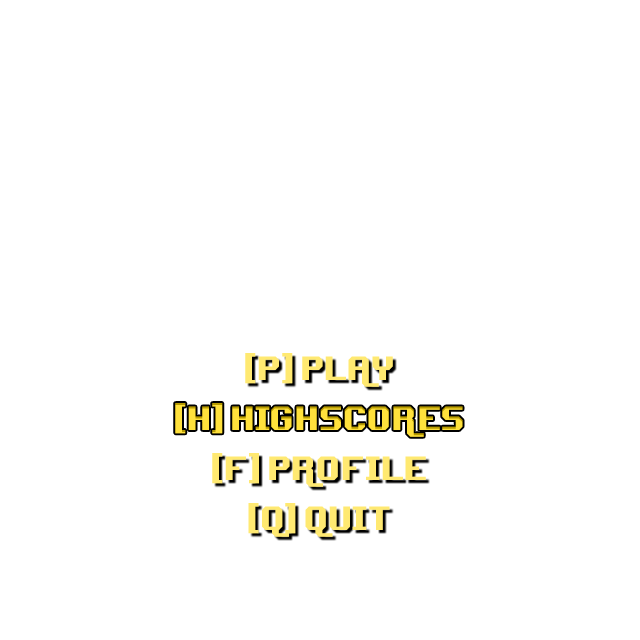
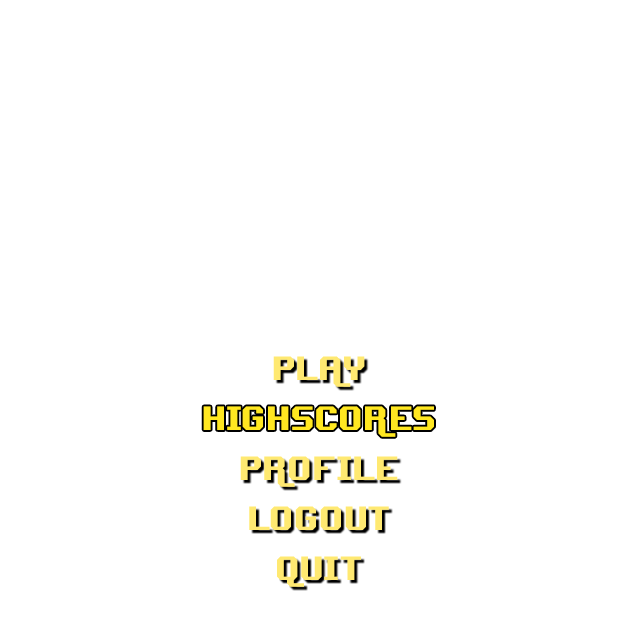
main menu basics done

Changed region(s): [[0.25, 0.5312, 0.75, 0.9375]]

diff --git a/screens/menu.py b/screens/menu.py
@@ -5,21 +5,45 @@ MAIN_MENU: int = 1
 PLAY: int = 2
 HIGHSCORES: int = 3
 PROFILE: int = 4
-QUIT: int = 5
-GAME_OVER: int = 6
+LOGOUT: int = 5
+QUIT: int = 6
+GAME_OVER: int = 7
+
 
 class Menu:
-    def __init__(self: object, win: pygame.Surface, screen_width: int, assets_dir: str) -> None:
+    def __init__(
+        self: object,
+        win: pygame.Surface,
+        screen_width: int,
+        assets_dir: str,
+        framerate: int,
+    ) -> None:
         self.win: pygame.Surface = win
         self.screen_width: int = screen_width
         self.assets_dir: str = assets_dir
+        self.framerate = framerate
 
-        self.border: pygame.Surface = pygame.image.load(f"{self.assets_dir}/main_menu_border.png")
-        self.background: pygame.Surface = pygame.image.load(f"{self.assets_dir}/full_background.png")
-        self.main_menu_play_selected: pygame.Surface = pygame.image.load(f"{self.assets_dir}/main_menu_play_selected.png")
-        self.main_menu_highscore_selected: pygame.Surface = pygame.image.load(f"{self.assets_dir}/main_menu_highscore_selected.png")
-        self.main_menu_profile_selected: pygame.Surface = pygame.image.load(f"{self.assets_dir}/main_menu_profile_selected.png")
-        self.main_menu_quit_selected: pygame.Surface = pygame.image.load(f"{self.assets_dir}/main_menu_quit_selected.png")
+        self.border: pygame.Surface = pygame.image.load(
+            f"{self.assets_dir}/main_menu_border.png"
+        )
+        self.background: pygame.Surface = pygame.image.load(
+            f"{self.assets_dir}/full_background.png"
+        )
+        self.main_menu_play_selected: pygame.Surface = pygame.image.load(
+            f"{self.assets_dir}/main_menu_play_selected.png"
+        )
+        self.main_menu_highscore_selected: pygame.Surface = pygame.image.load(
+            f"{self.assets_dir}/main_menu_highscore_selected.png"
+        )
+        self.main_menu_profile_selected: pygame.Surface = pygame.image.load(
+            f"{self.assets_dir}/main_menu_profile_selected.png"
+        )
+        self.main_menu_logout_selected: pygame.Surface = pygame.image.load(
+            f"{self.assets_dir}/main_menu_logout_selected.png"
+        )
+        self.main_menu_quit_selected: pygame.Surface = pygame.image.load(
+            f"{self.assets_dir}/main_menu_quit_selected.png"
+        )
 
         self.background_image_width: int = self.background.get_width()
 
@@ -27,12 +51,42 @@ class Menu:
 
         self.menu_state: int = PLAY
 
-    def run(self: object) -> None:
-        self.draw()
+    def run(self: object) -> int:
+        selected: bool = False
+
+        clock: pygame.time.Clock = pygame.time.Clock()
+        while not selected:
+            clock.tick(self.framerate)
+
+            for event in pygame.event.get():
+                if event.type == pygame.QUIT:
+                    self.keep_running = False
+                if event.type == pygame.KEYDOWN:
+                    if event.key == pygame.K_UP or event.key == pygame.K_w:
+                        self.menu_state -= 1
+                    elif event.key == pygame.K_DOWN or event.key == pygame.K_s:
+                        self.menu_state += 1
+                    elif event.key == pygame.K_RETURN:
+                        selected = True
+                    elif event.key == pygame.K_ESCAPE:
+                        selected = True
+                        self.menu_state = QUIT
+
+            if self.menu_state < PLAY:
+                self.menu_state = QUIT
+            elif self.menu_state > QUIT:
+                self.menu_state = PLAY
+
+            self.draw()
+
+        return self.menu_state
 
     def draw(self: object) -> None:
         self.win.blit(self.background, (self.menu_background_offset, 0))
-        self.win.blit(self.background, (self.menu_background_offset + self.background_image_width, 0))
+        self.win.blit(
+            self.background,
+            (self.menu_background_offset + self.background_image_width, 0),
+        )
 
         if self.menu_state == PLAY:
             self.win.blit(self.main_menu_play_selected, (0, 0))
@@ -40,6 +94,8 @@ class Menu:
             self.win.blit(self.main_menu_highscore_selected, (0, 0))
         elif self.menu_state == PROFILE:
             self.win.blit(self.main_menu_profile_selected, (0, 0))
+        elif self.menu_state == LOGOUT:
+            self.win.blit(self.main_menu_logout_selected, (0, 0))
         elif self.menu_state == QUIT:
             self.win.blit(self.main_menu_quit_selected, (0, 0))
 

diff --git a/game.py b/game.py
@@ -26,8 +26,9 @@ MAIN_MENU: int = 1
 PLAY: int = 2
 HIGHSCORES: int = 3
 PROFILE: int = 4
-QUIT: int = 5
-GAME_OVER: int = 6
+LOGOUT: int = 5
+QUIT: int = 6
+GAME_OVER: int = 7
 
 ANTIALIAS: bool = True
 
@@ -35,6 +36,7 @@ SCORE_X: int = 100
 SCORE_Y: int = 50
 
 MAIN_FONT_SIZE: int = 25
+
 
 class Game:
     def __init__(self: object) -> None:
@@ -45,38 +47,43 @@ class Game:
         project_dir: str = os.path.dirname(os.path.abspath(__file__))
         self.assets_dir: str = f"{project_dir}/assets"
 
-        self.background_image: pygame.Surface = pygame.image.load(f"{self.assets_dir}/background.png")
-        self.player_rocket: pygame.Surface = pygame.image.load(f"{self.assets_dir}/player_rocket.png")
-        self.game_over_image: pygame.Surface = pygame.image.load(f"{self.assets_dir}/game_over.png")
+        self.background_image: pygame.Surface = pygame.image.load(
+            f"{self.assets_dir}/background.png"
+        )
+        self.player_rocket: pygame.Surface = pygame.image.load(
+            f"{self.assets_dir}/player_rocket.png"
+        )
+        self.game_over_image: pygame.Surface = pygame.image.load(
+            f"{self.assets_dir}/game_over.png"
+        )
 
         self.menu_background: pygame.Surface = pygame.image.load(
-        f"{self.assets_dir}/full_background.png"
-    )
+            f"{self.assets_dir}/full_background.png"
+        )
         self.main_menu_border: pygame.Surface = pygame.image.load(
-        f"{self.assets_dir}/main_menu_border.png"
-    )
+            f"{self.assets_dir}/main_menu_border.png"
+        )
         self.main_menu_none_selected: pygame.Surface = pygame.image.load(
-        f"{self.assets_dir}/main_menu_none_selected.png"
-    )
+            f"{self.assets_dir}/main_menu_none_selected.png"
+        )
         self.main_menu_play_selected: pygame.Surface = pygame.image.load(
-        f"{self.assets_dir}/main_menu_play_selected.png"
-    )
+            f"{self.assets_dir}/main_menu_play_selected.png"
+        )
         self.main_menu_highscore_selected: pygame.Surface = pygame.image.load(
-        f"{self.assets_dir}/main_menu_highscore_selected.png"
-    )
+            f"{self.assets_dir}/main_menu_highscore_selected.png"
+        )
         self.main_menu_profile_selected: pygame.Surface = pygame.image.load(
-        f"{self.assets_dir}/main_menu_profile_selected.png"
-    )
+            f"{self.assets_dir}/main_menu_profile_selected.png"
+        )
         self.main_menu_quit_selected: pygame.Surface = pygame.image.load(
-        f"{self.assets_dir}/main_menu_quit_selected.png"
-    )
+            f"{self.assets_dir}/main_menu_quit_selected.png"
+        )
 
         self.main_font: pygame.font.Font = pygame.font.Font(
-        f"{self.assets_dir}/Adventure_ReQuest.ttf", MAIN_FONT_SIZE
-    )
+            f"{self.assets_dir}/Adventure_ReQuest.ttf", MAIN_FONT_SIZE
+        )
 
         self.menu_background_offset: int = 0
-
 
         self.screen_width: int = DISPLAY_WIDTH
         self.screen_height: int = DISPLAY_HEIGHT
@@ -107,7 +114,7 @@ class Game:
 
     def run(self: object) -> None:
         print("🚀 Running Asteroids' game!")
-        menu: Menu = Menu(self.win, self.screen_width, self.assets_dir)
+        menu: Menu = Menu(self.win, self.screen_width, self.assets_dir, self.framerate)
 
         clock: pygame.time.Clock = pygame.time.Clock()
         while self.keep_running:
@@ -129,11 +136,18 @@ class Game:
             if self.state == PLAY:
                 play: Play = Play(self.win, self.screen_width, self.screen_height)
             if self.state == HIGHSCORES:
-                highscore: HighScore = HighScore(self.win, self.screen_width, self.screen_height)
+                highscore: HighScore = HighScore(
+                    self.win, self.screen_width, self.screen_height
+                )
             if self.state == PROFILE:
-                profile: Profile = Profile(self.win, self.screen_width, self.screen_height)
+                profile: Profile = Profile(
+                    self.win, self.screen_width, self.screen_height
+                )
             if self.state == MAIN_MENU:
-                menu.run()
+                self.state = menu.run()
+                self.keep_running = False
+            if self.state == QUIT:
+                self.keep_running = False
                 # if event.type == pygame.KEYDOWN:
                 #     if event.key == pygame.K_UP or event.key == pygame.K_w:
                 #         self.menu_state -= 1

diff --git a/screens/high_scores.py b/screens/high_scores.py
@@ -1,8 +1,11 @@
 import os
 import pygame
 
+
 class HighScore:
-    def __init__(self: object, win: pygame.Surface, screen_width: int, screen_height: int) -> None:
+    def __init__(
+        self: object, win: pygame.Surface, screen_width: int, screen_height: int
+    ) -> None:
         self.win: pygame.Surface = win
         self.screen_width: int = screen_width
         self.screen_height: int = screen_height

diff --git a/screens/profile.py b/screens/profile.py
@@ -1,8 +1,11 @@
 import os
 import pygame
 
+
 class Profile:
-    def __init__(self: object, win: pygame.Surface, screen_width: int, screen_height: int) -> None:
+    def __init__(
+        self: object, win: pygame.Surface, screen_width: int, screen_height: int
+    ) -> None:
         self.win: pygame.Surface = win
         self.screen_width: int = screen_width
         self.screen_height: int = screen_height

diff --git a/screens/login.py b/screens/login.py
@@ -1,8 +1,11 @@
 import os
 import pygame
 
+
 class Login:
-    def __init__(self: object, win: pygame.Surface, screen_width: int, screen_height: int) -> None:
+    def __init__(
+        self: object, win: pygame.Surface, screen_width: int, screen_height: int
+    ) -> None:
         self.win: pygame.Surface = win
         self.screen_width: int = screen_width
         self.screen_height: int = screen_height

diff --git a/screens/play.py b/screens/play.py
@@ -1,8 +1,11 @@
 import os
 import pygame
 
+
 class Play:
-    def __init__(self: object, win: pygame.Surface, screen_width: int, screen_height: int) -> None:
+    def __init__(
+        self: object, win: pygame.Surface, screen_width: int, screen_height: int
+    ) -> None:
         self.win: pygame.Surface = win
         self.screen_width: int = screen_width
         self.screen_height: int = screen_height
